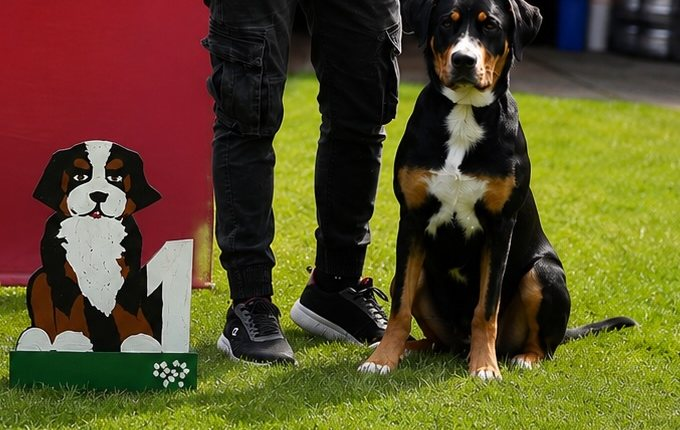
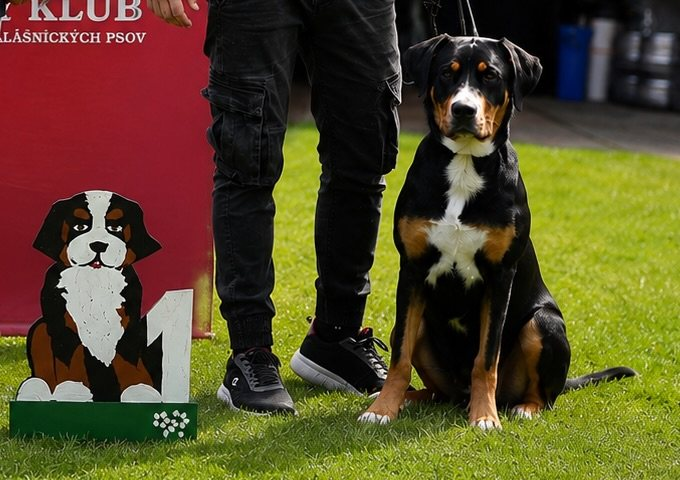
Beta: page-wide progress guide (chapter rail, bar, keep-scrolling cue); wall camera focuses each picture with its plaque beside it; face-aware frame crops
Claude-Session: https://claude.ai/code/session_01PnN2g4LmLAsKAYcVRoW8bB

diff --git a/src/data/wall.ts b/src/data/wall.ts
@@ -6,18 +6,18 @@ import type { Rect } from './house';
 export type WallPic = { src: string; kind: 'photo' | 'doc'; w: number; h: number };
 export type WallItem = { id: string; date: string; short?: string; r: Rect; cover: string; pos?: string; pics: WallPic[]; link?: { href: string; key: string; ep?: string } };
 
-const A = '/assets/album/', I = '/assets/img/';
+const A = '/assets/album/', I = '/assets/img/', H = '/assets/house/';
 const R = (x0: number, y0: number, x1: number, y1: number): Rect => ({ x: x0, y: y0, w: x1 - x0, h: y1 - y0 });
 
 export const WALL: WallItem[] = [
-  { id: 'w1', short: '3/25', date: '28. 3. 2025', r: R(298, 378, 441, 480), cover: A + 'ig-puppy.jpg', pos: '50% 55%', pics: [{ src: A + 'ig-puppy.jpg', kind: 'photo', w: 1080, h: 1350 }] },
-  { id: 'w2', short: '9/25', date: '27. 9. 2025', r: R(362, 77, 522, 296), cover: A + 'ig-show-2025.jpg', pos: '78% 50%', pics: [{ src: A + 'ig-show-2025.jpg', kind: 'photo', w: 680, h: 430 }, { src: A + 'doc-2025-09.jpg', kind: 'doc', w: 919, h: 1300 }] },
-  { id: 'w3', short: '11/25', date: '11 / 2025', r: R(610, 284, 777, 509), cover: A + 'p-2025-11.jpg', pos: '50% 35%', pics: [{ src: A + 'p-2025-11.jpg', kind: 'photo', w: 619, h: 1100 }, { src: A + 'p-2025-12a.jpg', kind: 'photo', w: 825, h: 1100 }, { src: A + 'p-2025-12b.jpg', kind: 'photo', w: 825, h: 1100 }] },
-  { id: 'w4', short: '1/26', date: '1 / 2026', r: R(718, 85, 1027, 223), cover: A + 'ig-snowrun.jpg', pos: '50% 50%', pics: [{ src: A + 'ig-snowrun.jpg', kind: 'photo', w: 1100, h: 611 }, { src: A + 'ig-snow.jpg', kind: 'photo', w: 1100, h: 1218 }, { src: A + 'p-2026-01.jpg', kind: 'photo', w: 825, h: 1100 }] },
+  { id: 'w1', short: '3/25', date: '28. 3. 2025', r: R(298, 378, 441, 480), cover: H + 'wf-w1.jpg', pos: '50% 50%', pics: [{ src: A + 'ig-puppy.jpg', kind: 'photo', w: 1080, h: 1350 }] },
+  { id: 'w2', short: '9/25', date: '27. 9. 2025', r: R(362, 77, 522, 296), cover: H + 'wf-w2.jpg', pos: '50% 50%', pics: [{ src: A + 'ig-show-2025.jpg', kind: 'photo', w: 680, h: 480 }, { src: A + 'doc-2025-09.jpg', kind: 'doc', w: 919, h: 1300 }] },
+  { id: 'w3', short: '11/25', date: '11 / 2025', r: R(610, 284, 777, 509), cover: H + 'wf-w3.jpg', pos: '50% 50%', pics: [{ src: A + 'p-2025-11.jpg', kind: 'photo', w: 619, h: 1100 }, { src: A + 'p-2025-12a.jpg', kind: 'photo', w: 825, h: 1100 }, { src: A + 'p-2025-12b.jpg', kind: 'photo', w: 825, h: 1100 }] },
+  { id: 'w4', short: '1/26', date: '1 / 2026', r: R(718, 85, 1027, 223), cover: H + 'wf-w4.jpg', pos: '50% 50%', pics: [{ src: A + 'ig-snowrun.jpg', kind: 'photo', w: 1100, h: 611 }, { src: A + 'ig-snow.jpg', kind: 'photo', w: 1100, h: 1218 }, { src: A + 'p-2026-01.jpg', kind: 'photo', w: 825, h: 1100 }] },
   { id: 'w5', short: '5/26', date: '30. 5. 2026', r: R(868, 296, 962, 434), cover: A + 'doc-2026-05.jpg', pos: '50% 0%', pics: [{ src: A + 'doc-2026-05.jpg', kind: 'doc', w: 919, h: 1300 }] },
   { id: 'w6', short: '8/26', date: '23. 8. 2026', r: R(1020, 412, 1223, 538), cover: A + 'doc-2026-08.jpg', pos: '50% 4%', pics: [{ src: A + 'doc-2026-08.jpg', kind: 'doc', w: 920, h: 1300 }] },
   { id: 'w7', short: '9/26', date: '18.–20. 9. 2026', r: R(1158, 83, 1318, 294), cover: A + 'doc-2026-09-18.jpg', pos: '50% 0%', pics: [{ src: A + 'diplom-2026-09-18.jpg', kind: 'doc', w: 1300, h: 920 }, { src: A + 'doc-2026-09-18.jpg', kind: 'doc', w: 919, h: 1300 }, { src: A + 'doc-2026-09-19.jpg', kind: 'doc', w: 919, h: 1300 }, { src: A + 'doc-2026-09-20.jpg', kind: 'doc', w: 919, h: 1300 }] },
   { id: 'w8', short: '2026', date: '2026', r: R(1293, 362, 1445, 456), cover: I + 'doc-xray.jpg', pos: '50% 62%', pics: [{ src: I + 'doc-xray.jpg', kind: 'photo', w: 800, h: 1000 }], link: { href: 'papers/', key: 'to_papers' } },
-  { id: 'w9', short: '2026', date: '2026', r: R(1467, 118, 1579, 258), cover: A + 'ig-profile.jpg', pos: '42% 30%', pics: [{ src: A + 'ig-profile.jpg', kind: 'photo', w: 1080, h: 1000 }], link: { href: '#episodes', key: 'to_ep', ep: '11' } },
+  { id: 'w9', short: '2026', date: '2026', r: R(1467, 118, 1579, 258), cover: H + 'wf-w9.jpg', pos: '50% 50%', pics: [{ src: A + 'ig-profile.jpg', kind: 'photo', w: 1080, h: 1000 }], link: { href: '#episodes', key: 'to_ep', ep: '11' } },
   { id: 'w10', date: '', r: R(1536, 336, 1682, 516), cover: I + 'carrie-anim.jpg', pos: '50% 25%', pics: [{ src: I + 'carrie-anim.jpg', kind: 'photo', w: 1000, h: 1250 }, { src: I + 'carrie-real.jpg', kind: 'photo', w: 1000, h: 1250 }], link: { href: '#episodes', key: 'to_episodes' } },
 ];

diff --git a/src/data/album.ts b/src/data/album.ts
@@ -6,7 +6,7 @@ export type Chapter = { id: string; date: string; pics: Pic[]; stamp?: string[];
 const A = '/assets/album/';
 export const ALBUM: Chapter[] = [
   { id: 'c1', date: '28. 3. 2025', pics: [{ src: A + 'ig-puppy.jpg', kind: 'photo', w: 1080, h: 1350 }], stamp: ['28', 'III', '2025'] },
-  { id: 'c2', date: '27. 9. 2025', pics: [{ src: A + 'ig-show-2025.jpg', kind: 'photo', w: 680, h: 430 }, { src: A + 'doc-2025-09.jpg', kind: 'doc', w: 919, h: 1300 }] },
+  { id: 'c2', date: '27. 9. 2025', pics: [{ src: A + 'ig-show-2025.jpg', kind: 'photo', w: 680, h: 480 }, { src: A + 'doc-2025-09.jpg', kind: 'doc', w: 919, h: 1300 }] },
   { id: 'c3', date: '11–12 / 2025', pics: [{ src: A + 'p-2025-11.jpg', kind: 'photo', w: 619, h: 1100 }, { src: A + 'p-2025-12a.jpg', kind: 'photo', w: 825, h: 1100 }, { src: A + 'p-2025-12b.jpg', kind: 'photo', w: 825, h: 1100 }] },
   { id: 'c4', date: '1 / 2026', pics: [{ src: A + 'p-2026-01.jpg', kind: 'photo', w: 825, h: 1100 }, { src: A + 'ig-snow.jpg', kind: 'photo', w: 1100, h: 1218 }] },
   { id: 'c5', date: '30. 5. 2026', pics: [{ src: A + 'doc-2026-05.jpg', kind: 'doc', w: 919, h: 1300 }] },
